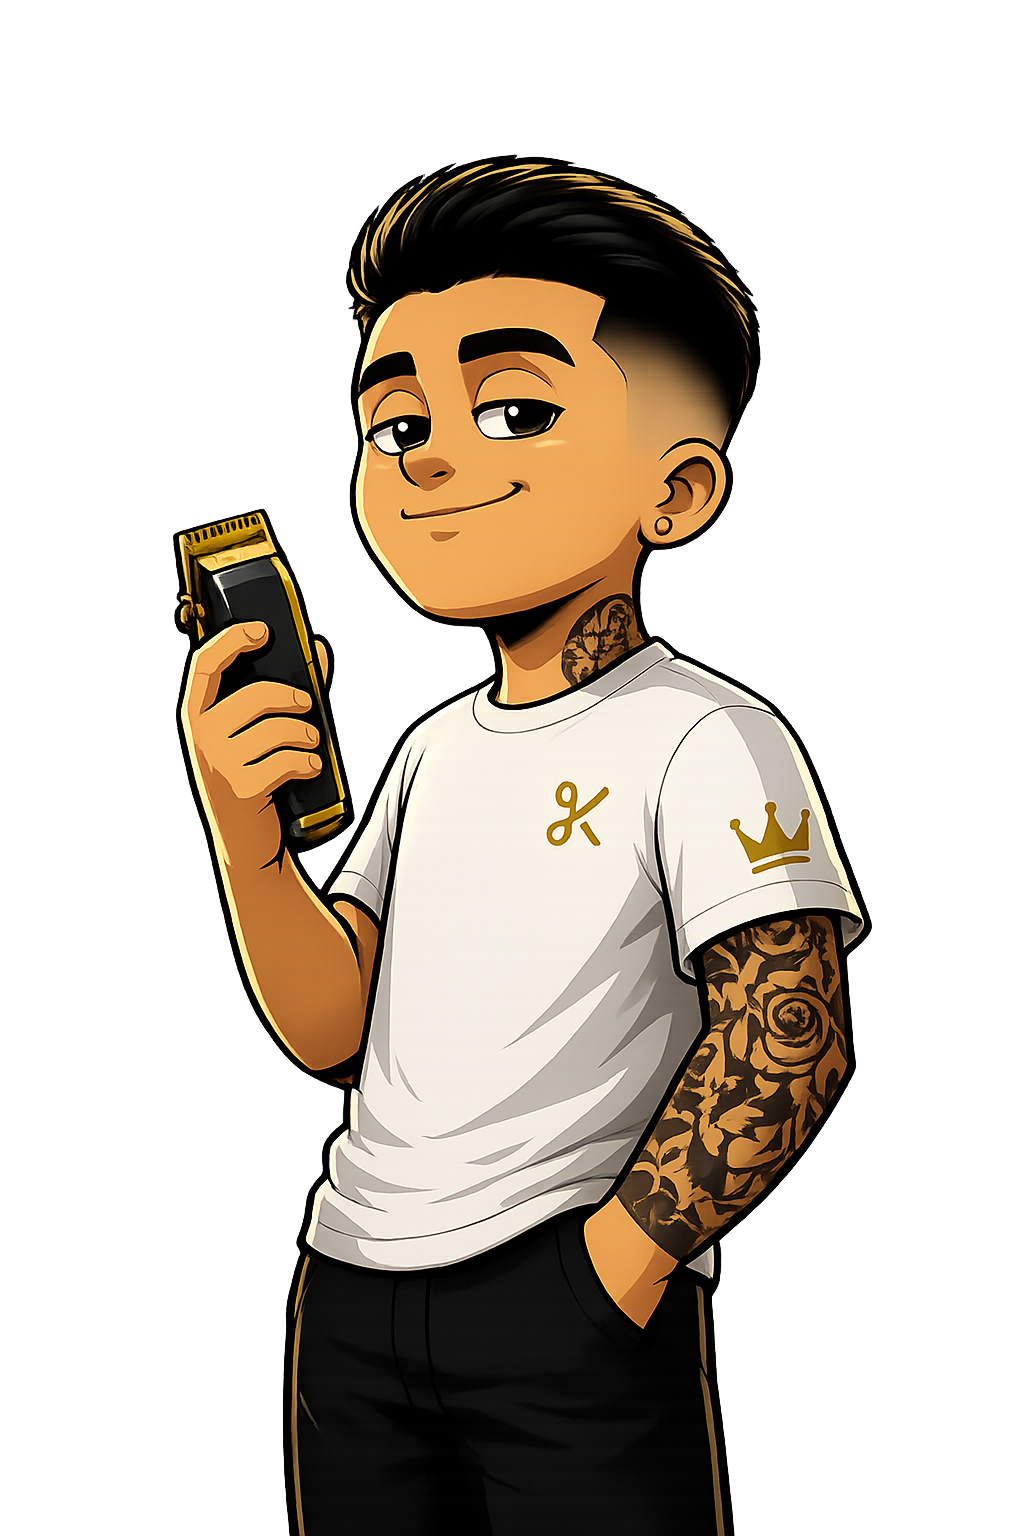
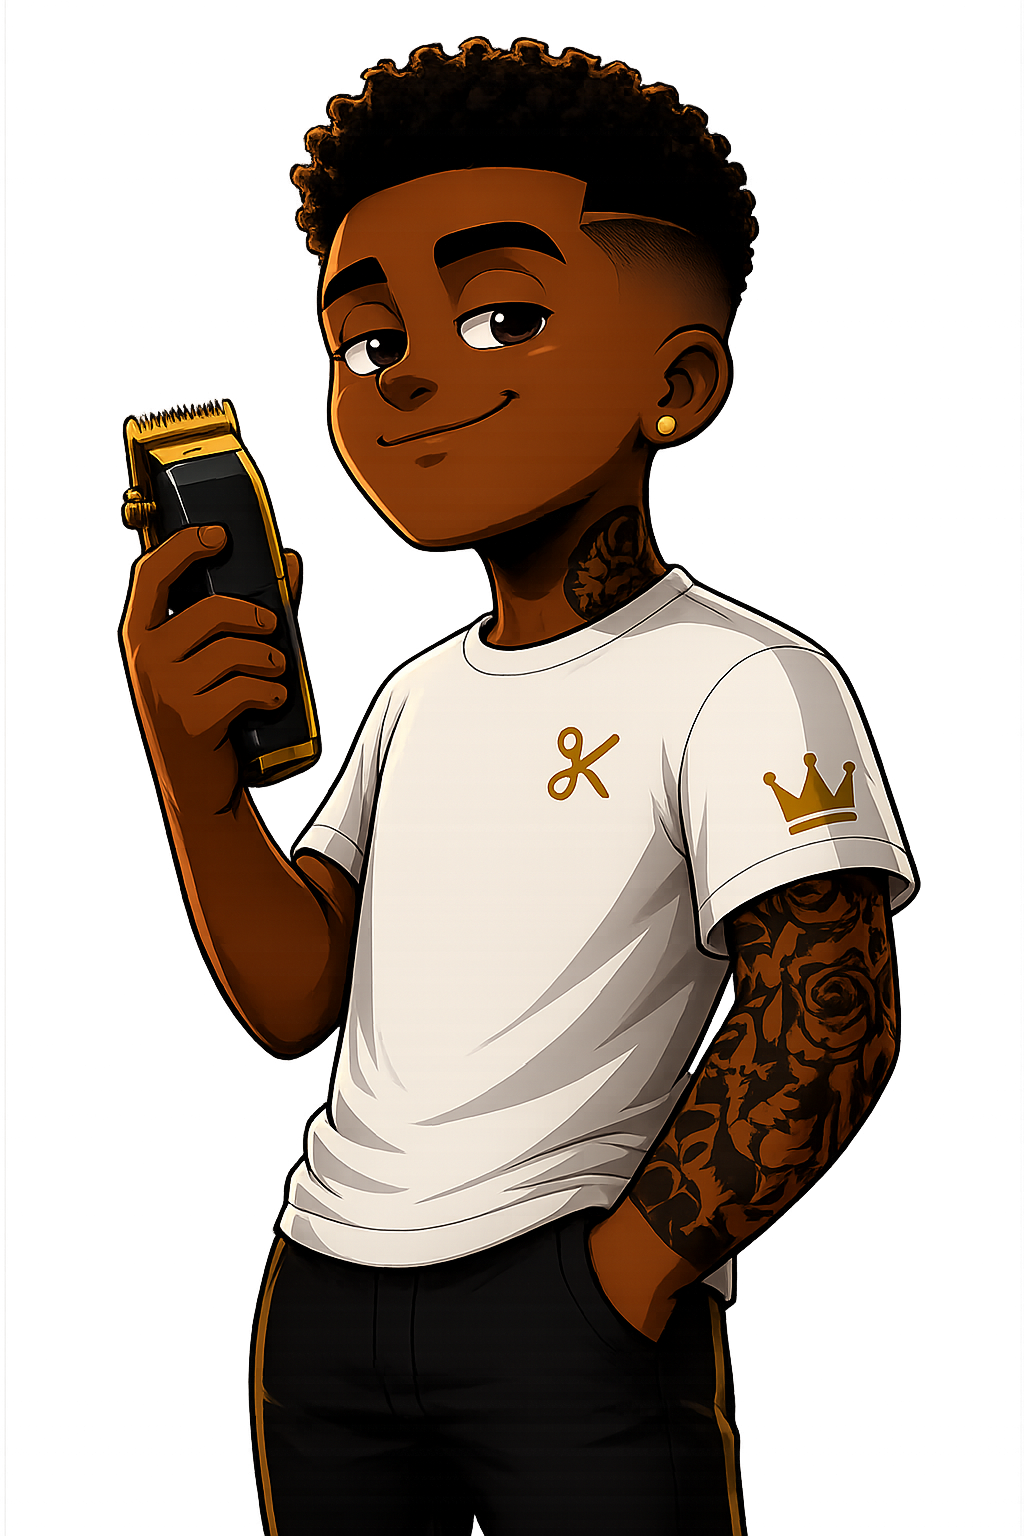
dashboard centralizado versão app

diff --git a/css/dashboard.css b/css/dashboard.css
@@ -378,12 +378,35 @@
     }
 
     .stat-card{
-        width:100%;
-        min-height:140px;
+    width:100%;
+    min-height:170px;
 
-        padding:20px;
-        border-radius:16px;
-    }
+    padding:22px;
+    border-radius:16px;
+
+    display:flex;
+    flex-direction:column;
+    align-items:center;
+    justify-content:center;
+
+    text-align:center;
+}
+
+.stat-card > *{
+    text-align:center;
+}
+
+.stat-card .card-icon{
+    margin-left:auto;
+    margin-right:auto;
+}
+
+.stat-card h3,
+.stat-card h2,
+.stat-card p{
+    width:100%;
+    text-align:center;
+}
 
     /* PAINÉIS INFERIORES */
 